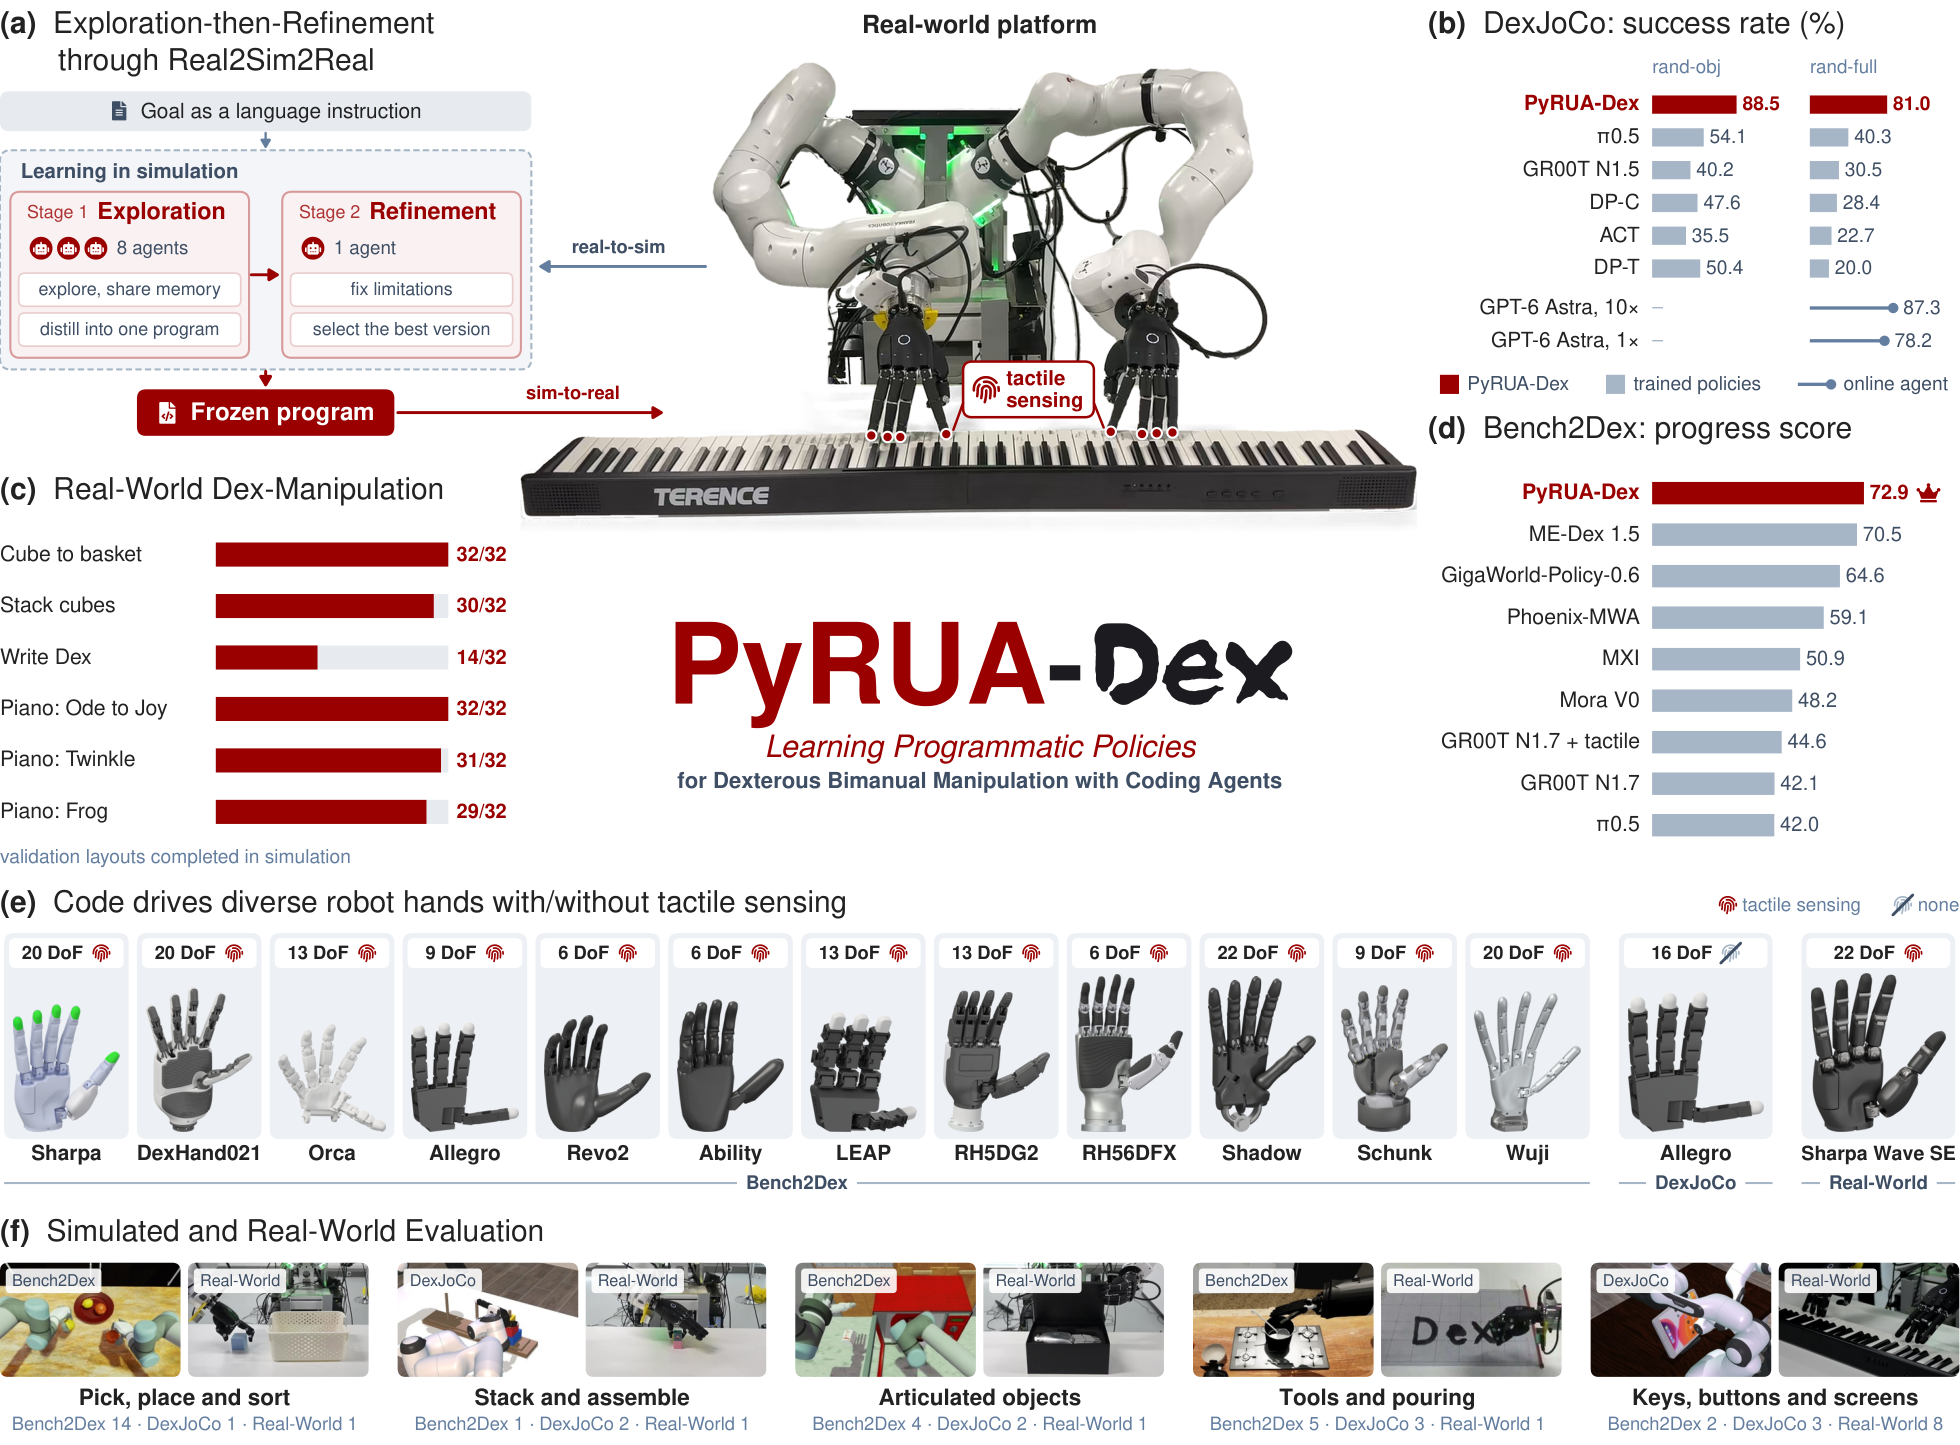
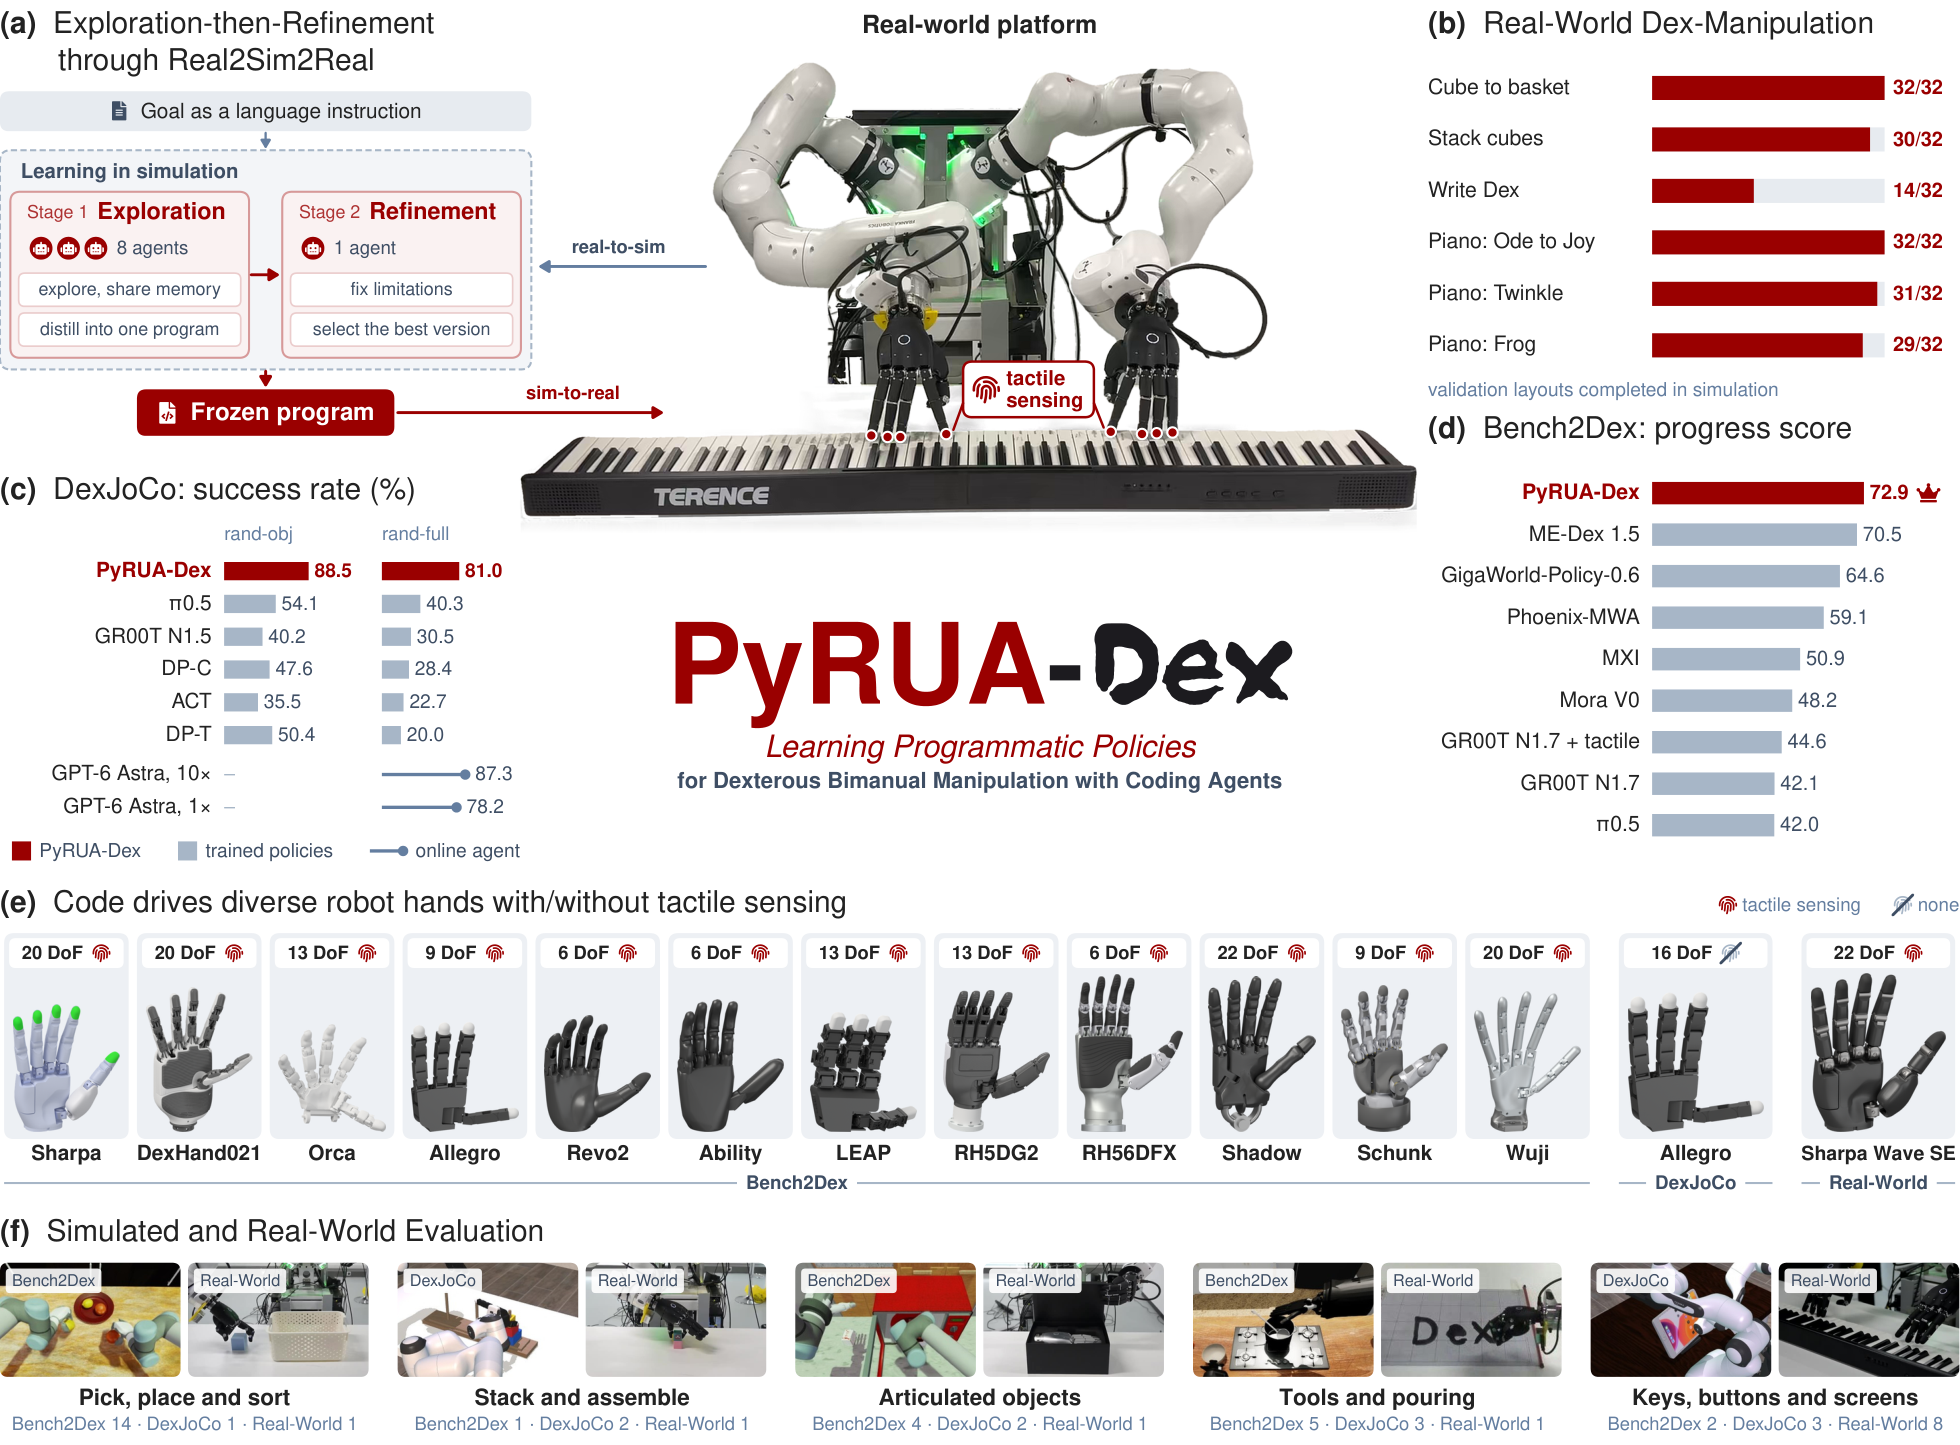
PyRUA-Dex README: Figure 1 of the revised paper
The paper's revision of 2026-11-25 swapped two panels of Figure 1: the real-world results are (b),
beside the platform's photograph, and DexJoCo is (c), beside Bench2Dex. The README shows the new
figure and its alt text names the panels in the new order.

Changed region(s): [[0.0, 0.3114, 0.2801, 0.6228], [0.7158, 0.0, 0.9959, 0.2803]]

diff --git a/README.md b/README.md
@@ -27,7 +27,7 @@ During refinement, this program is improved through randomized layouts for enhan
 execution efficiency.
 
 <p align="center">
-  <img src="assets/fig-teaser.png" width="100%" alt="PyRUA-Dex at a glance. Center: the real-world platform playing the piano, with tactile sensing at the fingertips. (a) Coding agents learn a task's program in simulation in two stages, exploration and refinement; the frozen program is deployed in the real world, and real-world feedback updates the simulation. (b) DexJoCo success rates. (c) Tasks learned for the real-world platform. (d) The Bench2Dex leaderboard. (e) The robot hands the programs drive. (f) The simulated and real-world tasks in five classes.">
+  <img src="assets/fig-teaser.png" width="100%" alt="PyRUA-Dex at a glance. Center: the real-world platform playing the piano, with tactile sensing at the fingertips. (a) Coding agents learn a task's program in simulation in two stages, exploration and refinement; the frozen program is deployed in the real world, and real-world feedback updates the simulation. (b) Tasks learned for the real-world platform. (c) DexJoCo success rates. (d) The Bench2Dex leaderboard. (e) The robot hands the programs drive. (f) The simulated and real-world tasks in five classes.">
 </p>
 
 ## Code
